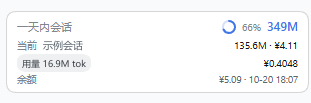
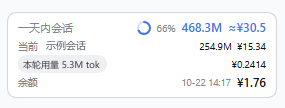
docs: refresh screenshots for the latest footer layout; 0.4.5

diff --git a/使用说明.md b/使用说明.md
@@ -2,7 +2,7 @@
 
 DSH（DeepSeek Harness）Web GUI 插件：在侧边栏显示每个会话的 token 用量与估算费用。
 
-- 版本：0.4.4
+- 版本：0.4.5
 - 适用：DSH 0.2.1-rc.2（桌面版 / Web 版）
 - 插件目录：本仓库根目录（安装时填它的绝对路径）
 - 宿主形状：宿主半边（`lib/index.js`）+ 浏览器半边（`lib/client.js`）
